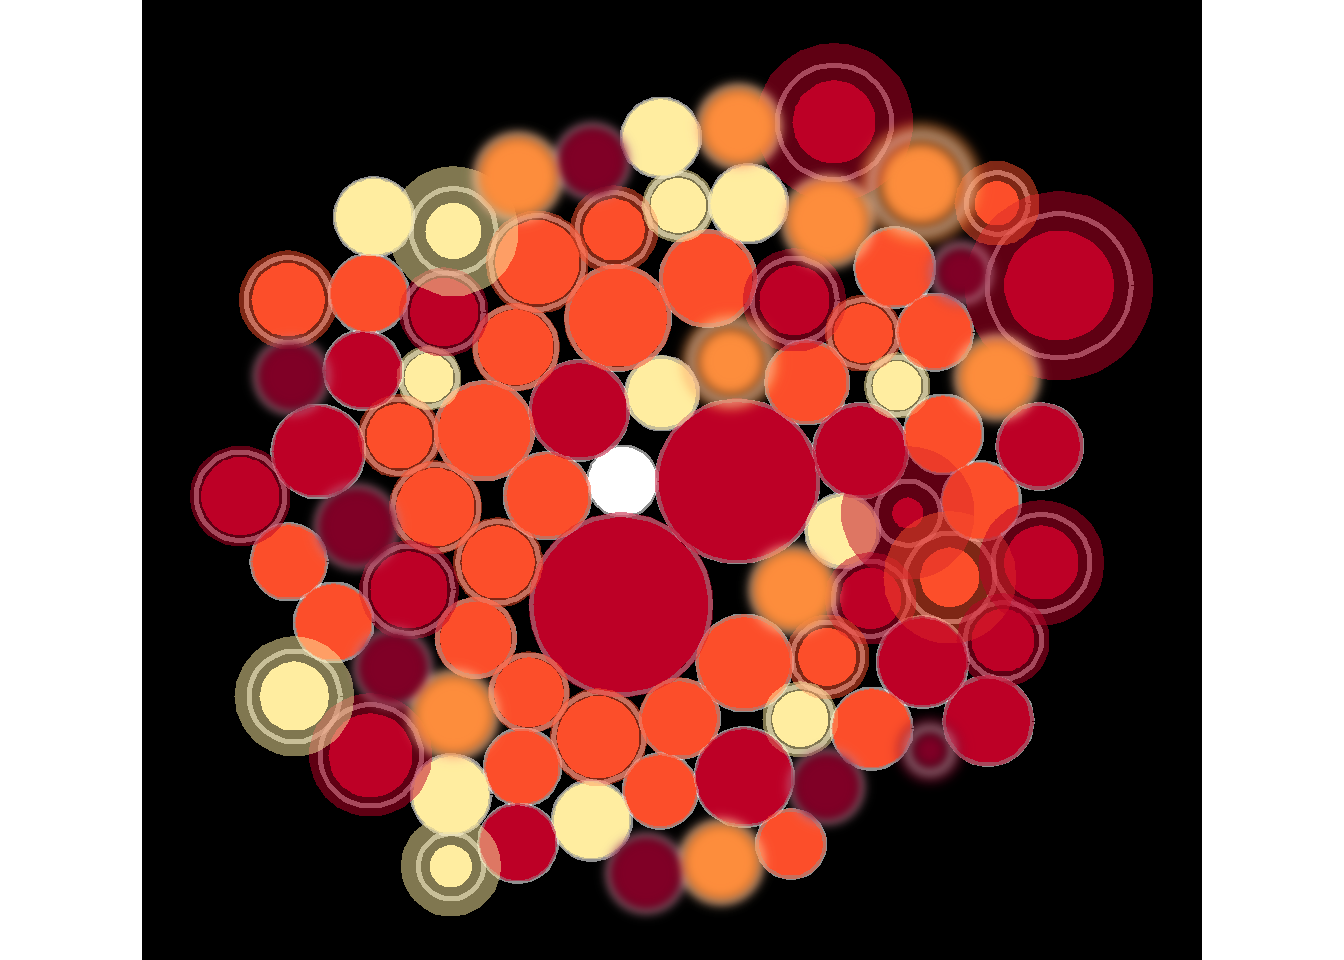
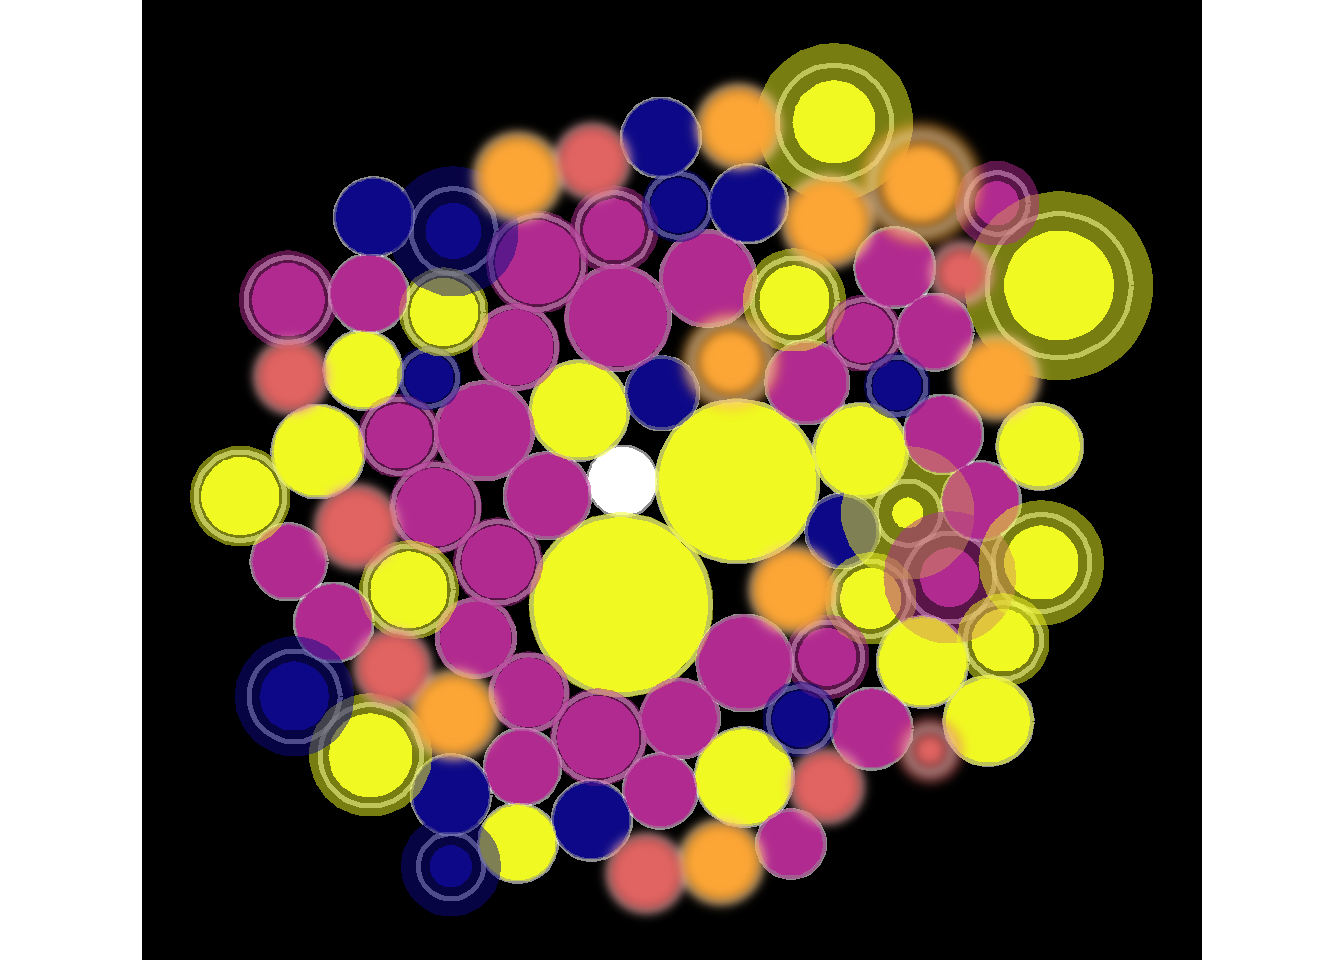
adding legend gif for blast

diff --git a/docs/posts/kat-correia-01.html b/docs/posts/kat-correia-01.html
@@ -95,16 +95,12 @@ ul.task-list li input[type="checkbox"] {
  <span class="menu-text">What is Data Art?</span></a>
   </li>  
   <li class="nav-item">
-    <a class="nav-link" href="../about-project.html" rel="" target="">
- <span class="menu-text">About the Project</span></a>
+    <a class="nav-link" href="../about.html" rel="" target="">
+ <span class="menu-text">About</span></a>
   </li>  
   <li class="nav-item">
-    <a class="nav-link" href="../about-us.html" rel="" target="">
- <span class="menu-text">About Us</span></a>
-  </li>  
-  <li class="nav-item">
-    <a class="nav-link" href="../acknowledge.html" rel="" target="">
- <span class="menu-text">Acknowledgements &amp; Inspiration</span></a>
+    <a class="nav-link" href="../contact-us.html" rel="" target="">
+ <span class="menu-text">Contact Us</span></a>
   </li>  
 </ul>
             <div class="quarto-navbar-tools">
@@ -158,10 +154,16 @@ ul.task-list li input[type="checkbox"] {
 </div>
 <p>One of the things that struck me during our review was just how many different studies identified large racial and ethnic disparities in maternal morbidity and mortality outcomes AFTER accounting for many different “explanations” – differences in age, income, education, hospital type, geography – and measured in many different ways – blood transfusions, hysterectomy, sepsis, admission to intensive care unit, . . .</p>
 <p>In this piece, each circle represents an estimated risk ratio for the risk of a maternal morbidity and mortality outcome; the shading around the circle represents uncertainty around that estimate. As each article we reviewed used “white” (or “White” or “Non-Hispanic White”) as the reference group, the white circle in the middle represents the risk in the referent group. The radius of each of the other circles is relative to the increased risk among other race and ethnicity groups – the larger the circle, the larger the risk. The circles that are blurred represent groups that were either of “Missing/Unknown” race and ethnicity or “Other” race and ethnicity; the blur suggests we need to refocus our microscope to get a clearer picture of the people in these groups.</p>
-<p>Why the microscope reference? For this piece, I drew upon the imagery of a blastocyst. By the 5th or 6th day after fertilization, an embryo is in the blastocyst stage (a rapidly dividing ball of cells). In the data art, each circle represents evidence of an inequity and together the circles accumulate and speak to the volume of evidence that may seem inconceivable, yet is undeniable.</p>
+<p>Why the microscope reference? For this piece, I drew upon the imagery of a blastocyst. By the 5th or 6th day after fertilization, an embryo is in the blastocyst stage (a rapidly dividing ball of cells). In the data art, each circle represents the risk of a bad outcome and together the circles accumulate and speak to the volume of evidence that may seem inconceivable, yet is undeniable.</p>
 <div class="quarto-figure quarto-figure-center">
 <figure class="figure">
 <p><a href="https://www.utahfertility.com/understanding-embryo-grading/"><img src="images/embryo-day.jpg" class="img-fluid figure-img"></a></p>
+</figure>
+</div>
+<p>Here is more information about each circle:</p>
+<div class="quarto-figure quarto-figure-center">
+<figure class="figure">
+<p><img src="blast_context.gif" class="img-fluid figure-img" width="620"></p>
 </figure>
 </div>
 

diff --git a/docs/index.html b/docs/index.html
@@ -239,7 +239,7 @@ Jul 30, 2021
 </div>
 </a>
 </div>
-<div class="g-col-1" data-index="3" data-listing-date-sort="1625112000000" data-listing-file-modified-sort="1684903245433" data-listing-date-modified-sort="NaN" data-listing-reading-time-sort="7">
+<div class="g-col-1" data-index="3" data-listing-date-sort="1625112000000" data-listing-file-modified-sort="1685734861772" data-listing-date-modified-sort="NaN" data-listing-reading-time-sort="16">
 <a href="./posts/kat-correia-01.html" class="quarto-grid-link">
 <div class="quarto-grid-item card h-100 card-left">
 <p class="card-img-top"><img src="posts\kat-correia-01_files\figure-html\figure-blast-1.png" style="height: 150px;"  class="thumbnail-image card-img"/></p>

diff --git a/docs/about.html b/docs/about.html
@@ -151,8 +151,8 @@ ul.task-list li input[type="checkbox"] {
 <p>Are we a lab or are we a studio? Are we scientists or artists? Why do we have to choose just one box? Let’s break down this false binary: we’re both! We work with data. We create art. Meet our contributors, statisticians, data scientists, dancers, illustrators . . .</p>
 <table class="table">
 <colgroup>
-<col style="width: 26%">
-<col style="width: 73%">
+<col style="width: 7%">
+<col style="width: 92%">
 </colgroup>
 <tbody>
 <tr class="odd">
